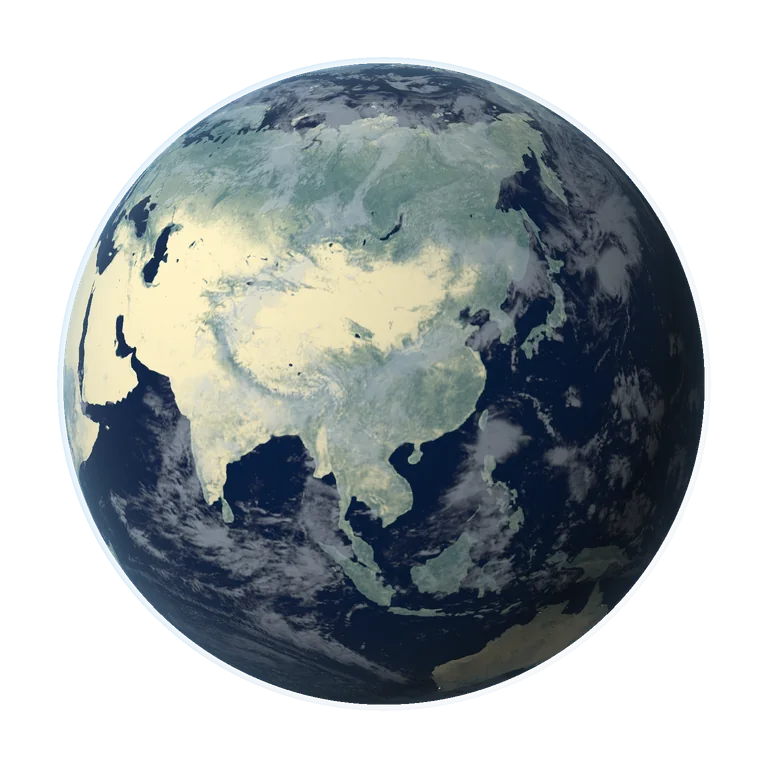
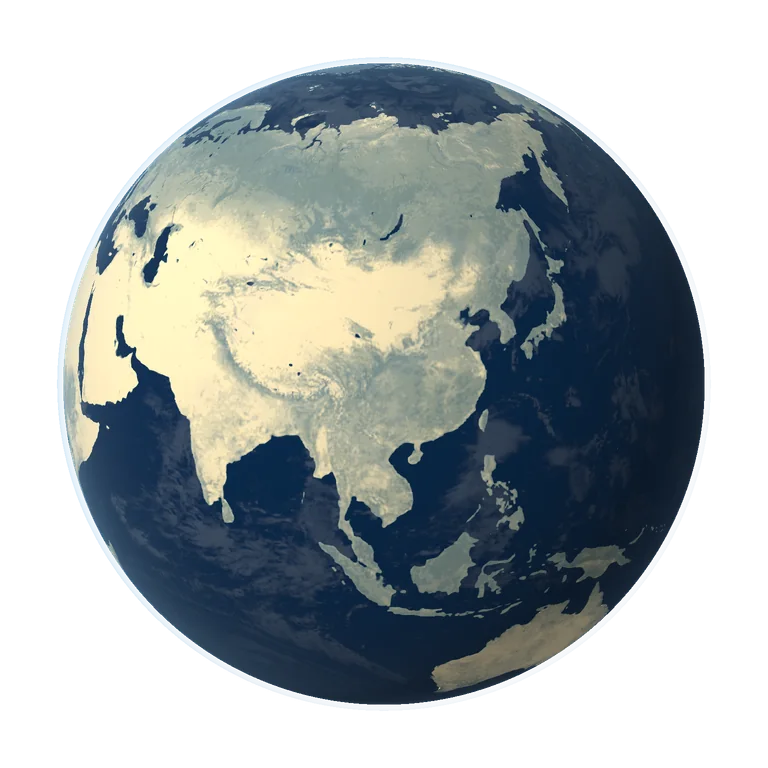
Make the research atlas more legible and directly explorable

diff --git a/app/InteractiveGlobe.tsx b/app/InteractiveGlobe.tsx
@@ -23,7 +23,7 @@ export default function InteractiveGlobe({ language, paused, ready, linkedStudy,
   const focus = useRef<((lon: number, lat: number) => void) | null>(null), active = useRef(8);
   const changeStyle = useRef<((network: boolean) => void) | null>(null), redraw = useRef<(() => void) | null>(null);
   const renderMask = useRef(allResearchLinks);
-  const [renderer, setRenderer] = useState("loading"), [selected, setSelected] = useState("CN"), [requestedStyle, setStyle] = useState("earth");
+  const [renderer, setRenderer] = useState("loading"), [selected, setSelected] = useState("CN"), [requestedStyle, setStyle] = useState("network");
   const [view, setView] = useState("CN"), [study, setStudy] = useState(0);
   const [caseOnly, setCaseOnly] = useState(false);
   const [lastLinkedStudy, setLastLinkedStudy] = useState<number | null>(null);
@@ -75,7 +75,8 @@ export default function InteractiveGlobe({ language, paused, ready, linkedStudy,
     }
     gl.enable(gl.DEPTH_TEST); gl.depthFunc(gl.LEQUAL); gl.enable(gl.CULL_FACE); gl.cullFace(gl.BACK); gl.enable(gl.BLEND); gl.blendFunc(gl.SRC_ALPHA, gl.ONE_MINUS_SRC_ALPHA); gl.clearColor(0, 0, 0, 0);
     const uo = gl.getUniformLocation(program, "orientation"), ur = gl.getUniformLocation(program, "resolution"), ua = gl.getUniformLocation(program, "activeMarket"), un = gl.getUniformLocation(program, "networkView"), uReveal = gl.getUniformLocation(program, "routeReveal"), uClock = gl.getUniformLocation(program, "clock"), uPixel = gl.getUniformLocation(program, "pixelRatio"), uMask = gl.getUniformLocation(program, "caseMarketMask");
-    gl.uniform2f(gl.getUniformLocation(program, "routeShape"), researchRouteShape.baseRadius, researchRouteShape.lift);
+    gl.uniform3f(gl.getUniformLocation(program, "routeShape"), researchRouteShape.baseRadius, researchRouteShape.lift, researchRouteShape.bend);
+    gl.uniform2f(gl.getUniformLocation(program, "flow"), researchRouteShape.flowRate, researchRouteShape.phases.length);
     const texture = gl.createTexture(); gl.activeTexture(gl.TEXTURE0); gl.bindTexture(gl.TEXTURE_2D, texture); gl.texImage2D(gl.TEXTURE_2D, 0, gl.RGB, 1, 1, 0, gl.RGB, gl.UNSIGNED_BYTE, new Uint8Array([8, 30, 45]));
     gl.texParameteri(gl.TEXTURE_2D, gl.TEXTURE_MIN_FILTER, gl.LINEAR); gl.texParameteri(gl.TEXTURE_2D, gl.TEXTURE_MAG_FILTER, gl.LINEAR); gl.texParameteri(gl.TEXTURE_2D, gl.TEXTURE_WRAP_S, gl.REPEAT); gl.texParameteri(gl.TEXTURE_2D, gl.TEXTURE_WRAP_T, gl.CLAMP_TO_EDGE);
     gl.uniform1i(gl.getUniformLocation(program, "earth"), 0);
@@ -86,9 +87,13 @@ export default function InteractiveGlobe({ language, paused, ready, linkedStudy,
     let frame = 0, alive = true, visible = true, loaded = false, surfaceReady = false, cloudsReady = false, painted = false, failed = false, pointer = -1, lastX = 0, lastY = 0;
     let networkBlend = 0, networkTarget = 0, routeReveal = 1, lastFrame = 0, flowClock = 0, resizePending = false;
     const current=[105,30], target=[105,30];
+    let lastProjection = "";
     const nodeLabels = labels.current?.querySelectorAll<HTMLElement>("[data-market]");
     function draw(now: number) {
       frame = 0; if (!alive || !visible || document.hidden || !loaded) return;
+      const moving = Math.abs(current[0] - target[0]) + Math.abs(current[1] - target[1]) > .04 || Math.abs(networkBlend - networkTarget) > .001 || routeReveal < 1;
+      // A still camera only needs to repaint the travelling lights, not every display refresh.
+      if (!resizePending && !moving && !motion.current && networkTarget > .01 && lastFrame && now - lastFrame < 1000 / 32) { frame = requestAnimationFrame(draw); return; }
       resizePending = false;
       const delta = Math.min(.06, lastFrame ? Math.max(0, (now - lastFrame) / 1000) : .016); lastFrame = now;
       const speed = motion.current ? 1 : .13; current[0] += (target[0] - current[0]) * speed; current[1] += (target[1] - current[1]) * speed;
@@ -103,11 +108,15 @@ export default function InteractiveGlobe({ language, paused, ready, linkedStudy,
       gl!.disable(gl!.CULL_FACE); gl!.drawArrays(gl!.TRIANGLES, (globe.length + atmosphere.length) / 8, network.triangles);
       gl!.drawArrays(gl!.POINTS, (globe.length + atmosphere.length) / 8 + network.triangles, network.points + network.particles); gl!.enable(gl!.CULL_FACE); gl!.depthMask(true);
       if (!painted) { if (gl!.getError() !== gl!.NO_ERROR) { fail(); return; } painted = true; setRenderer("webgl"); }
-      nodeLabels?.forEach((label, i) => {
-        const p = projectPoint(researchMarkets[i].lon, researchMarkets[i].lat, current[0], current[1], el!.width / el!.height);
-        label.hidden = !p.visible; label.style.left = `${p.x * 100}%`; label.style.top = `${p.y * 100}%`;
-      });
-      el!.dataset.longitude = current[0].toFixed(2); el!.dataset.latitude = current[1].toFixed(2);
+      const longitude = current[0].toFixed(2), latitude = current[1].toFixed(2), projection = `${longitude}/${latitude}/${el!.width}/${el!.height}`;
+      if (projection !== lastProjection) {
+        lastProjection = projection;
+        nodeLabels?.forEach((label, i) => {
+          const p = projectPoint(researchMarkets[i].lon, researchMarkets[i].lat, current[0], current[1], el!.width / el!.height);
+          label.hidden = !p.visible; label.style.left = `${p.x * 100}%`; label.style.top = `${p.y * 100}%`;
+        });
+        el!.dataset.longitude = longitude; el!.dataset.latitude = latitude;
+      }
       el!.dataset.networkBlend = networkBlend.toFixed(3); el!.dataset.routeReveal = routeReveal.toFixed(3);
       el!.dataset.flowClock = flowClock.toFixed(3); el!.dataset.routes = String(network.edges.length);
       el!.dataset.lightPackets = String(network.particles);
@@ -148,7 +157,7 @@ export default function InteractiveGlobe({ language, paused, ready, linkedStudy,
     const nightImage = new window.Image(); el.dataset.nightTexture = "loading";
     nightImage.onload = () => { if (!alive || failed) return; if (nightImage.width > gl!.getParameter(gl!.MAX_TEXTURE_SIZE)) { el!.dataset.nightTexture = "unavailable"; return; } gl!.activeTexture(gl!.TEXTURE2); gl!.bindTexture(gl!.TEXTURE_2D, nightTexture); gl!.texImage2D(gl!.TEXTURE_2D, 0, gl!.RGB, gl!.RGB, gl!.UNSIGNED_BYTE, nightImage); gl!.generateMipmap(gl!.TEXTURE_2D); gl!.texParameteri(gl!.TEXTURE_2D, gl!.TEXTURE_MIN_FILTER, gl!.LINEAR_MIPMAP_LINEAR); el!.dataset.nightTexture = "ready"; wake(); };
     nightImage.onerror = () => { if (alive) el!.dataset.nightTexture = "unavailable"; }; nightImage.src = `${base}/images/earth-night-2016.jpg`;
-    function down(e: globalThis.PointerEvent) { if (!loaded) return; pointer = e.pointerId; lastX = e.clientX; lastY = e.clientY; el!.setPointerCapture(pointer); el!.dataset.dragging = "true"; }
+    function down(e: globalThis.PointerEvent) { if (!loaded || !e.isPrimary || e.button !== 0) return; pointer = e.pointerId; lastX = e.clientX; lastY = e.clientY; el!.setPointerCapture(pointer); el!.dataset.dragging = "true"; }
     function move(e: globalThis.PointerEvent) { if (e.pointerId !== pointer) return; target[0] -= (e.clientX - lastX) * .35; target[1] = Math.max(-65, Math.min(65, target[1] + (e.clientY - lastY) * .24)); lastX = e.clientX; lastY = e.clientY; setView("FREE"); wake(); }
     function up(e: globalThis.PointerEvent) { if (e.pointerId !== pointer) return; if (el!.hasPointerCapture(pointer)) el!.releasePointerCapture(pointer); pointer = -1; el!.dataset.dragging = "false"; }
     function key(e: globalThis.KeyboardEvent) {
@@ -213,21 +222,28 @@ export default function InteractiveGlobe({ language, paused, ready, linkedStudy,
   return <div className="rg-globe" data-renderer={renderer} data-view={renderer === "webgl" ? view : "CN"} data-market-selection={selected} data-style={style} data-market-ready={ready} data-layer={showingCoverage ? "study" : "all"} data-map-link={linkedStudy !== null}>
     {!ready && <StudyMapBriefs language={language}/>}
     {linkedStudy !== null && <StudyMapAddress index={currentStudy.index} language={language}/>}
+    <header className="rg-atlas-head">
+      <h2>{loc("多国研究地图", "Research atlas")}</h2>
+      <div className="rg-globe-styles" role="group" aria-label={loc("地球显示方式", "Globe display style")}>
+        <button type="button" disabled={renderer !== "webgl"} aria-pressed={style === "network"} aria-label={loc("研究网络", "Research network")} onClick={() => chooseStyle("network")}><svg viewBox="0 0 24 24" fill="none" aria-hidden="true"><path d="m6 6 12 2-5 10L6 6l12 2M6 6l7 12"/><circle cx="6" cy="6" r="2"/><circle cx="18" cy="8" r="2"/><circle cx="13" cy="18" r="2"/></svg>{loc("研究网络", "Network")}</button>
+        <button type="button" disabled={renderer !== "webgl"} aria-pressed={style === "earth"} aria-label={loc("卫星地形", "Satellite terrain")} onClick={() => chooseStyle("earth")}><svg viewBox="0 0 24 24" fill="none" aria-hidden="true"><circle cx="12" cy="12" r="8"/><path d="m5 14 5-6 4 5 2-2 3 4"/></svg>{loc("卫星地形", "Terrain")}</button>
+      </div>
+    </header>
     <div className="rg-globe-stage" id="rg-globe-stage" onKeyDown={keyboard}><div className="rg-globe-shadow"/><Image className="rg-earth-poster" src={`${base}/images/earth-china-poster.webp?v=${earthPosterRevision}`} width={768} height={768} alt={loc("中国视角的地球", "Earth centered on China")} aria-hidden={renderer === "webgl" || linkedStudy !== null} unoptimized priority draggable={false}/>
       <canvas ref={canvas} className="rg-globe-canvas" tabIndex={renderer === "webgl" ? 0 : -1} role="img" aria-hidden={renderer !== "webgl"} aria-label={loc("可旋转地球。拖动改变视角，方向键旋转，Home返回中国。", "Interactive globe. Drag or use arrow keys to rotate. Home centers China.")} onDragStart={e => e.preventDefault()}/>
       <div className="rg-globe-nodes" ref={labels}>{researchMarkets.map((p, i) => <button type="button" data-market={p.code} data-in-study={Boolean(coverage.mask & (1 << i))} key={p.code} hidden disabled={renderer !== "webgl"} aria-label={loc(`查看${p.zh}研究项目`, `View research in ${p.en}`)} aria-controls="rg-market-research" aria-pressed={selected === p.code} onClick={() => exploreFromGlobe(p.code)}><span>{p.code}</span></button>)}</div>
-      <span className="rg-globe-note" role="status">{!ready ? "" : renderer === "fallback" ? loc("仍可在下方选择市场", "SELECT A MARKET BELOW") : renderer === "loading" ? loc("正在准备地球交互", "PREPARING INTERACTIVE VIEW") : loc("拖动旋转 · 点击标记查看案例", "DRAG TO ROTATE · SELECT A MARKET PIN")}</span>
+      <span className="rg-globe-note" role="status">{!ready ? "" : renderer === "fallback" ? loc("选择市场查看案例", "Choose a market to see its cases") : renderer === "loading" ? loc("正在载入地图", "Loading map") : loc("拖动旋转 · 选择市场查看案例", "Drag to rotate · Select a market to see its cases")}</span>
     </div>
-    <div className="rg-globe-toolbar"><div className="rg-globe-styles" role="group" aria-label={loc("地球显示方式", "Globe display style")}><button type="button" disabled={renderer !== "webgl"} aria-pressed={style === "earth"} onClick={() => chooseStyle("earth")}><svg viewBox="0 0 24 24" fill="none" aria-hidden="true"><circle cx="12" cy="12" r="8"/><ellipse cx="12" cy="12" rx="4" ry="8"/><path d="M4 12h16"/></svg>{loc("卫星", "Satellite")}</button><button type="button" disabled={renderer !== "webgl"} aria-pressed={style === "network"} onClick={() => chooseStyle("network")}><svg viewBox="0 0 24 24" fill="none" aria-hidden="true"><path d="m6 6 12 2-5 10L6 6l12 2M6 6l7 12"/><circle cx="6" cy="6" r="2"/><circle cx="18" cy="8" r="2"/><circle cx="13" cy="18" r="2"/></svg>{loc("研究网络", "Research network")}</button></div>
-    <div className="rg-globe-views" role="group" aria-label={loc("地球主体视角", "Globe focal view")}>
-      <button type="button" disabled={renderer !== "webgl"} aria-pressed={view === "CN"} aria-label={loc("中国视角", "China view")} onClick={() => choose("CN")}>{loc("中国", "China")}</button>
-      <button type="button" disabled={renderer !== "webgl"} aria-pressed={view === "US"} aria-label={loc("美国视角", "U.S. view")} aria-controls="rg-market-research" onClick={() => choose("US")}>{loc("美国", "U.S.")}</button>
+    <div className="rg-globe-toolbar">
+    <div className="rg-globe-views" role="group" aria-label={loc("快速选择市场", "Market shortcuts")}>
+      <button type="button" aria-pressed={view === "CN"} aria-label={loc("中国视角 · 多国研究", "China view · Multi-country studies")} aria-controls="rg-market-research" onClick={() => choose("CN")}><span className="rg-view-code">CN</span>{loc("多国研究", "Multi-country")}</button>
+      <button type="button" className="rg-us-shortcut" aria-pressed={selected === "US"} aria-label={loc("查看美国研究", "View U.S. studies")} aria-controls="rg-market-research" onClick={() => exploreFromGlobe("US")}><span className="rg-view-code">US</span>{loc("美国案例", "U.S. cases")}<span className="rg-view-arrow" aria-hidden="true">↓</span></button>
     </div>
     <div className="rg-network-key" hidden={style !== "network"} aria-label={loc("研究连线图例", "Research link legend")}>
       <div className="rg-key-legend">
         {showingCoverage
           ? <span className="rg-key-markets"><i aria-hidden="true"/>{loc("本案例涉及市场", "Markets in this study")}</span>
-          : <><span><i aria-hidden="true"/>{selectedPlace ? loc("当前市场连线", "Selected market links") : loc("北京起点", "Beijing hub")}</span><span><i aria-hidden="true"/>{loc("其他研究连线", "Other research links")}</span></>}
+          : <><span><i aria-hidden="true"/>{selectedPlace ? loc("当前市场连线", "Selected market links") : loc("北京连线", "Beijing links")}</span><span><i aria-hidden="true"/>{loc("其他研究连线", "Other research links")}</span></>}
       </div>
       {hasCoverage && <button className="rg-case-layer" type="button" aria-pressed={showingCoverage} aria-controls="rg-globe-stage" onClick={() => setCaseOnly(value => !value)}>
         <svg viewBox="0 0 16 16" fill="none" aria-hidden="true"><path d="M6 2.5H2.5V6m7.5-3.5h3.5V6M6 13.5H2.5V10m7.5 3.5h3.5V10"/><circle cx="8" cy="8" r="1.5"/></svg>

diff --git a/app/earth-material.ts b/app/earth-material.ts
@@ -1,30 +1,38 @@
 // Shared lighting and shell dimensions for the live Earth and its offline poster.
-export const earthPosterRevision = "0a675da3fca5";
+export const earthPosterRevision = "7b15aaa2fc3a";
 
 export const earthMaterial = {
   light: [-.88, .58, 1.14],
   cloudRadius: 1.003,
   atmosphereRadius: 1.018,
-  ambient: .065,
-  exposure: 1.15,
-  landShadows: [.24, .40, .43],
-  landHighlights: [.90, .86, .71],
-  oceanBase: [.018, .104, .192],
-  oceanDetail: .25,
-  cloudOpacity: .35,
-  cloudShadow: .29,
-  cloudTint: [.88, .94, .99],
+  ambient: .25,
+  exposure: 1.10,
+  landShadows: [.36, .46, .47],
+  landHighlights: [.91, .84, .67],
+  oceanBase: [.030, .147, .248],
+  oceanDetail: .10,
+  cloudOpacity: .085,
+  cloudShadow: .09,
+  cloudTint: [.80, .91, .98],
+  coastTint: [.24, .28, .26],
+  terrainBands: 6,
+  terrainBandMix: .54,
 } as const;
 
 export const earthVertex = `#version 300 es
 precision highp float;
 in vec3 position;in vec3 normal;in float material;in float market;
-uniform vec2 resolution;uniform vec2 orientation;uniform vec2 routeShape;uniform float activeMarket;uniform float clock;uniform float pixelRatio;uniform int caseMarketMask;
+uniform vec2 resolution;uniform vec2 orientation;uniform vec3 routeShape;uniform vec2 flow;uniform float activeMarket;uniform float clock;uniform float pixelRatio;uniform int caseMarketMask;
 out vec3 point;out vec3 surface;out float pathPosition;out float edgeDistance;flat out float kind;flat out float picked;flat out float routeCode;flat out float inCoverage;
 vec3 view(vec3 w){float a=orientation.y,b=orientation.x;vec3 p=vec3(cos(b)*w.x-sin(b)*w.z,w.y,sin(b)*w.x+cos(b)*w.z);return vec3(p.x,cos(a)*p.y-sin(a)*p.z,sin(a)*p.y+cos(a)*p.z);}
 void main(){
  vec3 p=position;pathPosition=normal.x;edgeDistance=normal.y;
- if(material>3.5){float t=fract(clock*.14+market*.013+material-4.);float a=acos(clamp(dot(position,normal),-1.,1.));p=(position*sin((1.-t)*a)+normal*sin(t*a))/sin(a)*(routeShape.x+routeShape.y*sin(3.14159265*t));pathPosition=t;}
+ if(material>3.5){
+  float t=fract(clock*flow.x+market*.013+material-4.);
+  float a=acos(clamp(dot(position,normal),-1.,1.)),rise=sin(3.14159265*t);
+  p=(position*sin((1.-t)*a)+normal*sin(t*a))/sin(a)*(routeShape.x+routeShape.y*rise);
+  p+=normalize(cross(position,normal))*(rise*routeShape.z*min(1.,a*1.6));pathPosition=t;
+ }
  if((material>.5&&material<2.5)||material>3.5)p=view(p);
  float depth=4.6-p.z,scale=4.2/1.12;
  gl_Position=vec4(p.x*scale/(resolution.x/resolution.y),p.y*scale,1.020202*depth-.2020202,depth);
@@ -37,21 +45,28 @@ void main(){
  }
  inCoverage=(!caseOnly||bothInCase)?1.:0.;
  picked=caseOnly?inCoverage:((abs(floor(market/16.)-activeMarket)<.1||abs(mod(market,16.)-activeMarket)<.1)?1.:0.);
- gl_PointSize=material>3.5?(picked>.5?11.:7.)*pixelRatio:material>1.5&&material<2.5?(picked>.5?20.:13.)*pixelRatio:1.;
+ gl_PointSize=material>3.5?(picked>.5?13.:8.)*pixelRatio:material>1.5&&material<2.5?(picked>.5?24.:15.)*pixelRatio:1.;
  if(caseOnly&&bothInCase&&material>1.5&&material<2.5)gl_PointSize=(25.+2.*sin(clock*2.4))*pixelRatio;
 }`;
 
 export const earthFragment = `#version 300 es
 precision highp float;
 in vec3 point;in vec3 surface;in float pathPosition;in float edgeDistance;flat in float kind;flat in float picked;flat in float routeCode;flat in float inCoverage;out vec4 color;
-uniform sampler2D earth;uniform sampler2D clouds;uniform sampler2D night;uniform vec2 orientation;uniform vec2 resolution;uniform float networkView;uniform float routeReveal;uniform float clock;
+uniform sampler2D earth;uniform sampler2D clouds;uniform sampler2D night;uniform vec2 orientation;uniform vec2 resolution;uniform vec2 flow;uniform float networkView;uniform float routeReveal;uniform float clock;
 const float PI=3.14159265359;
 const float CLOUD_RADIUS=${earthMaterial.cloudRadius};
 vec3 world(vec3 n){float a=orientation.y,b=orientation.x;vec3 p=vec3(n.x,cos(a)*n.y+sin(a)*n.z,-sin(a)*n.y+cos(a)*n.z);return vec3(cos(b)*p.x+sin(b)*p.z,p.y,-sin(b)*p.x+cos(b)*p.z);}
 vec2 uvAt(vec3 n){vec3 w=world(normalize(n));return vec2(atan(w.x,w.z)/(2.*PI)+.5,.5-asin(clamp(w.y,-1.,1.))/PI);}
 float cloudAt(vec3 n){return smoothstep(.055,.88,texture(clouds,uvAt(n)).r);}
 vec3 cityLights(vec3 sampleColor){float mask=smoothstep(.025,.13,sampleColor.r-.8*sampleColor.b)*smoothstep(.08,.35,sampleColor.r);return sampleColor*mask;}
-vec3 gradeSurface(vec3 natural,float water){float luma=dot(natural,vec3(.28,.58,.14));vec3 land=mix(vec3(${earthMaterial.landShadows.join(",")}),vec3(${earthMaterial.landHighlights.join(",")}),smoothstep(.035,.57,luma));vec3 ocean=vec3(${earthMaterial.oceanBase.join(",")})+natural*${earthMaterial.oceanDetail};return mix(land,ocean,water);}
+vec3 gradeSurface(vec3 natural,float water){
+ float luma=dot(natural,vec3(.28,.58,.14)),relief=smoothstep(.035,.57,luma);
+ float band=relief*${earthMaterial.terrainBands}.;
+ float terraces=(floor(band)+smoothstep(.24,.78,fract(band)))/${earthMaterial.terrainBands}.;
+ vec3 land=mix(vec3(${earthMaterial.landShadows.join(",")}),vec3(${earthMaterial.landHighlights.join(",")}),mix(relief,terraces,${earthMaterial.terrainBandMix}));
+ vec3 ocean=vec3(${earthMaterial.oceanBase.join(",")})+natural*${earthMaterial.oceanDetail};
+ return mix(land,ocean,water)+vec3(${earthMaterial.coastTint.join(",")})*water*(1.-water);
+}
 vec3 shellPoint(vec3 p,vec3 direction){float b=dot(p,direction);float d=-b+sqrt(max(0.,b*b+CLOUD_RADIUS*CLOUD_RADIUS-dot(p,p)));return p+direction*d;}
 void main(){
  if((kind>.5&&kind<2.5)||kind>3.5){
@@ -60,20 +75,20 @@ void main(){
   float silhouette=(4.2/1.12)/sqrt(4.6*4.6-1.);
   float screenDistance=length((gl_FragCoord.xy-resolution*.5)*2./resolution.y);
   float limb=smoothstep(.12,.36,normalize(point).z)*(1.-smoothstep(silhouette-.012,silhouette,screenDistance));
-  vec3 signal=mix(vec3(.32,.86,.99),vec3(1.,.76,.38),picked);
+  vec3 signal=mix(vec3(.28,.81,.94),vec3(1.,.73,.32),picked);
   if(kind>1.5){
    if(kind>3.5&&networkView<.01)discard;
    float d=length(gl_PointCoord-.5);if(d>.5)discard;
-   float core=1.-smoothstep(.06,.19,d),halo=pow(1.-smoothstep(.01,.5,d),1.65);
+   float core=1.-smoothstep(.06,.20,d),halo=pow(1.-smoothstep(.01,.5,d),1.42);
    float alpha=max(core,halo*.88)*limb;
    if(kind>3.5)alpha*=networkView;
    color=vec4(mix(signal,vec3(.98,.99,1.),core*.79),alpha);
   }else{
    if(networkView<.01)discard;
    float reveal=1.-smoothstep(routeReveal,routeReveal+.045,pathPosition);
-   float x=abs(edgeDistance),core=1.-smoothstep(.12,.51,x),halo=pow(1.-smoothstep(.08,1.,x),1.65);
-   float trail=exp(-8.*fract((clock*.14+routeCode*.013-pathPosition)*3.));
-   float alpha=clamp(core*(mix(.54,.90,picked)+trail*.22)+halo*mix(.19,.30,picked),0.,.98);
+   float x=abs(edgeDistance),core=1.-smoothstep(.11,.48,x),halo=pow(1.-smoothstep(.08,1.,x),1.4);
+   float trail=exp(-6.5*fract((clock*flow.x+routeCode*.013-pathPosition)*flow.y));
+   float alpha=clamp(core*(mix(.61,.94,picked)+trail*.25)+halo*mix(.20,.37,picked),0.,.98);
    color=vec4(mix(signal,vec3(.98,.99,1.),core*(.18+trail*.60)),alpha*limb*networkView*mix(1.,reveal,picked));
   }return;
  }
@@ -100,13 +115,13 @@ void main(){
  vec2 gridDistance=abs(sin(geo*12.));vec2 gridWidth=max(fwidth(geo*12.),vec2(.001));
  float grid=1.-min(smoothstep(vec2(0.),gridWidth*1.2,gridDistance).x,smoothstep(vec2(0.),gridWidth*1.2,gridDistance).y);
  float facing=max(0.,dot(n,v)),relief=smoothstep(.27,.79,dot(natural,vec3(.28,.58,.14)));
- vec3 network=mix(vec3(.024,.068,.115),mix(vec3(.052,.155,.184),vec3(.105,.239,.267),relief),1.-water);
- network*=.75+.25*facing;network+=vec3(.25,.52,.72)*grid*.085;
- vec2 cells=geo*vec2(101.,82.);vec2 cell=floor(cells);float seed=fract(sin(dot(cell,vec2(127.1,311.7)))*43758.5453);
- float d=length(fract(cells)-.5),radius=mix(.15,.25,seed),aa=clamp(fwidth(d),.028,.12);
- float dots=(1.-smoothstep(radius-aa,radius+aa,d))*step(.28,seed)*(1.-water)*smoothstep(.13,.50,facing);
- network+=vec3(.24,.63,.78)*dots*(.14+.28*seed);
- network+=vec3(.26,.65,.84)*pow(max(0.,dot(lights,vec3(.35,.45,.2))),.72)*.95;
+ vec3 network=mix(vec3(.031,.078,.133),mix(vec3(.070,.180,.218),vec3(.143,.296,.325),relief),1.-water);
+ network*=.73+.27*facing;network+=vec3(.28,.54,.73)*grid*.061;
+ vec2 cells=geo*vec2(113.,94.);vec2 cell=floor(cells);float seed=fract(sin(dot(cell,vec2(127.1,311.7)))*43758.5453);
+ float d=length(fract(cells)-.5),radius=mix(.17,.31,seed),aa=clamp(fwidth(d),.028,.13);
+ float dots=(1.-smoothstep(radius-aa,radius+aa,d))*step(.20,seed)*(1.-water)*smoothstep(.15,.52,facing);
+ network+=vec3(.29,.68,.82)*dots*(.22+.31*seed);
+ network+=vec3(.46,.72,.84)*pow(max(0.,dot(lights,vec3(.35,.45,.2))),.64)*.99;
  network+=vec3(.055,.18,.27)*pow(1.-facing,3.);
  color=vec4(mix(satellite,network,networkView),1.);
 }`;
@@ -135,9 +150,11 @@ export function shadeEarth(p: Vector, surfaceAt: Sampler, cloudsAt: Sampler, nig
   let natural = surfaceAt(n);
   const water = 1 - smoothstep(-.03, .075, Math.max(natural[0], natural[1] * .9) - natural[2]);
   const luma = dot(natural, [.28, .58, .14]);
-  const land = mix(earthMaterial.landShadows, earthMaterial.landHighlights, smoothstep(.035, .57, luma));
+  const relief = smoothstep(.035, .57, luma), band = relief * earthMaterial.terrainBands;
+  const terraces = (Math.floor(band) + smoothstep(.24, .78, band % 1)) / earthMaterial.terrainBands;
+  const land = mix(earthMaterial.landShadows, earthMaterial.landHighlights, relief + (terraces - relief) * earthMaterial.terrainBandMix);
   const ocean = natural.map((value, index) => earthMaterial.oceanBase[index] + value * earthMaterial.oceanDetail);
-  natural = mix(land, ocean, water);
+  natural = mix(land, ocean, water).map((value, index) => value + earthMaterial.coastTint[index] * water * (1 - water));
   const cloudAt = (normal: Vector) => smoothstep(.055, .88, cloudsAt(normal)[0]);
   const incidence = dot(n, light), sun = Math.max(0, incidence);
   const shadow = cloudAt(intersectShell(n, light, earthMaterial.cloudRadius));

diff --git a/app/earth-controls.css b/app/earth-controls.css
@@ -1,15 +1,26 @@
-.portfolio-v17 .rg-globe{--rg-ink:#263f55;--rg-muted:#536b7e;--rg-line:#b9c6ca;--rg-accent:#b28b52}
-.portfolio-v17 .rg-globe-stage{aspect-ratio:1.13;height:auto;max-height:480px}
-.portfolio-v17 .rg-globe-note{font-size:9px;letter-spacing:.08em;color:var(--rg-muted);bottom:-1px}
-.portfolio-v17 .rg-globe[data-style=network] .rg-globe-shadow{background:#17455d39}
-.portfolio-v17 .rg-globe-toolbar{display:flex;justify-content:space-between;align-items:center;flex-wrap:wrap;gap:8px 12px;margin:16px 0 12px}
-.portfolio-v17 .rg-globe-styles{display:flex;gap:3px;border:1px solid #afbdc7;border-radius:6px;padding:3px;background:#e6ebeb82}
-.portfolio-v17 .rg-globe-styles button{display:flex;align-items:center;justify-content:center;gap:8px;min-height:44px;padding:8px 13px;border:0;border-radius:3px;background:none;color:var(--rg-muted);font-size:11px;white-space:nowrap;transition:background .3s,color .3s}
+.portfolio-v17 .rg-globe{--rg-ink:#203c54;--rg-muted:#4f6576;--rg-line:#adbec5;--rg-accent:#a4793b;--rg-pale:#f5e7c8}
+.portfolio-v17 .rg-atlas-head{display:flex;align-items:center;justify-content:space-between;flex-wrap:wrap;gap:4px 12px;padding:0 0 8px;border-bottom:1px solid #b9c8c7}
+.portfolio-v17 .rg-atlas-head h2{display:flex;align-items:center;gap:9px;margin:0;font-size:15px;font-weight:600;line-height:1.35;color:var(--rg-ink)}
+.portfolio-v17 .rg-atlas-head h2::before{content:"";display:block;flex:none;width:12px;height:2px;background:#aa8244}
+.portfolio-v17 .rg-globe[data-market-ready=false] .rg-globe-styles,.portfolio-v17 .rg-globe[data-renderer=fallback] .rg-globe-styles{display:none}
+.portfolio-v17 .rg-globe-stage{aspect-ratio:1.13;height:auto;max-height:444px}
+.portfolio-v17 .rg-globe .rg-globe-canvas{touch-action:pan-y}
+.portfolio-v17 .rg-globe-note{font-size:11px;letter-spacing:.02em;color:var(--rg-muted);bottom:0}
+.portfolio-v17 .rg-globe[data-style=network] .rg-globe-shadow{background:#17455d36}
+.portfolio-v17 .rg-globe-toolbar{display:flex;align-items:center;flex-wrap:wrap;gap:6px 12px;margin:10px 0 12px}
+.portfolio-v17 .rg-globe-styles{display:flex;gap:3px;min-width:0;padding:2px 0}
+.portfolio-v17 .rg-globe-styles button{display:flex;align-items:center;justify-content:center;gap:6px;min-height:44px;padding:6px 10px;border:1px solid transparent;border-radius:3px;background:none;color:var(--rg-muted);font-size:12px;white-space:nowrap;transition:background .24s,color .24s}
 .portfolio-v17 .rg-globe-styles svg{width:17px;height:17px;stroke:currentColor;stroke-width:1.2}
-.portfolio-v17 .rg-globe-styles button[aria-pressed=true]{background:var(--rg-ink);color:#f5f2e8;box-shadow:0 2px 5px #19344c1c}
-.portfolio-v17 .rg-globe-views{display:flex;gap:3px;margin:0;padding:3px;border:1px solid #afbdc7;border-radius:6px;background:#e6ebeb82}
-.portfolio-v17 .rg-globe-views button{min-width:46px;min-height:44px;border:0;border-radius:3px;padding:7px 10px;background:none;color:var(--rg-muted);font-size:11px;white-space:nowrap}
-.portfolio-v17 .rg-globe-views button[aria-pressed=true]{background:#ecdfc3;color:#213c52;font-weight:700}
+.portfolio-v17 .rg-globe-styles button:not([aria-pressed=true]):hover{background:#dce8e5;color:var(--rg-ink)}
+.portfolio-v17 .rg-globe-styles button[aria-pressed=true]{background:var(--rg-ink);color:#f5f2e8;border-color:#1c354a}
+.portfolio-v17 .rg-globe-views{display:grid;flex:1 0 100%;grid-template-columns:1fr 1fr;gap:8px;margin:0;padding:0}
+.portfolio-v17 .rg-globe-views button{justify-content:flex-start;gap:9px;min-width:0;min-height:46px;border:1px solid var(--rg-line);border-radius:3px;padding:6px 10px;background:#f3f6f0;color:var(--rg-ink);font-size:12px;line-height:1.2;text-align:start;transition:background .22s,border-color .22s}
+.portfolio-v17 .rg-globe-views button:hover,.portfolio-v17 .rg-globe-views button[aria-pressed=true]{background:#dce8e6;border-color:#7e9ca5}
+.portfolio-v17 .rg-globe-views .rg-view-code{flex:none;font-size:14px;font-weight:700;letter-spacing:.055em;color:inherit}
+.portfolio-v17 .rg-globe-views .rg-view-arrow{margin-inline-start:auto;font-size:16px;color:inherit}
+.portfolio-v17 .rg-globe-views .rg-us-shortcut{background:var(--rg-pale);border-color:#c6a775;font-weight:600}
+.portfolio-v17 .rg-globe-views .rg-us-shortcut:hover,.portfolio-v17 .rg-globe-views .rg-us-shortcut[aria-pressed=true]{background:#f0d9a8;border-color:#a77f3f}
+.portfolio-v17 .rg-globe-views .rg-us-shortcut .rg-view-code{font-size:17px}
 .portfolio-v17 .rg-network-key:not([hidden]){display:flex;flex:1 0 100%;min-width:0;align-items:center;justify-content:space-between;gap:5px 12px;color:var(--rg-muted);font-size:11px;line-height:1.4}
 .portfolio-v17 .rg-key-legend{display:flex;min-width:0;flex-wrap:wrap;gap:4px 12px}
 .portfolio-v17 .rg-key-legend>span{display:inline-flex;align-items:center;gap:6px;white-space:nowrap}
@@ -25,12 +36,13 @@
 .portfolio-v17 .rg-case-map-summary>strong{font-size:inherit;font-weight:600;min-width:0;overflow-wrap:anywhere}
 .portfolio-v17 .rg-globe button:disabled{opacity:.45;cursor:default}
 .portfolio-v17 .rg-globe button:focus-visible{outline:2px solid #a17b40;outline-offset:3px}
-.portfolio-v17 .rg-globe-nodes>button{width:44px;height:44px;font-size:11px;color:#e8f2f4}
+.portfolio-v17 .rg-globe-nodes>button{width:44px;height:44px;font-size:12px;color:#e8f2f4}
 .portfolio-v17 .rg-globe-nodes>button::before{content:"";position:absolute;width:5px;height:5px;top:calc(50% - 2.5px);left:calc(50% - 2.5px);background:#e6f7ff;border-radius:50%;box-shadow:0 0 6px 2px #63b4ecb0}
-.portfolio-v17 .rg-globe-nodes>button>span{opacity:1;top:9px;left:30px;padding:5px 7px;background:#142d43db;border:1px solid #7395ae7a;border-radius:3px;letter-spacing:.04em;font-weight:500;text-shadow:none;white-space:nowrap;pointer-events:auto}
+.portfolio-v17 .rg-globe-nodes>button>span{opacity:1;top:9px;left:30px;padding:5px 7px;background:#142d43ed;border:1px solid #87aab891;border-radius:3px;letter-spacing:.04em;font-weight:600;text-shadow:none;white-space:nowrap;pointer-events:auto}
+.portfolio-v17 .rg-globe-nodes>button:is(:hover,:focus-visible)>span{border-color:#e7d1a3}
 .portfolio-v17 .rg-globe-nodes>button[aria-pressed=true]{z-index:3}
-.portfolio-v17 .rg-globe-nodes>button[aria-pressed=true]>span{font-size:16px;font-weight:700;background:#f2e1bd;color:#173349;border-color:#ffedd1;padding:7px 10px;top:4px;box-shadow:0 3px 13px #142e4452}
-.portfolio-v17 .rg-globe-nodes>button[data-market=US][aria-pressed=true]>span{font-size:18px;letter-spacing:.06em}
+.portfolio-v17 .rg-globe-nodes>button[aria-pressed=true]>span,.portfolio-v17 .rg-globe-nodes>button[data-market=US]>span{font-size:16px;font-weight:700;background:#f2e1bd;color:#173349;border-color:#ffedd1;padding:7px 10px;top:4px;box-shadow:0 3px 13px #142e4452}
+.portfolio-v17 .rg-globe-nodes>button[data-market=US][aria-pressed=true]>span{font-size:19px;letter-spacing:.06em}
 .portfolio-v17 .rg-globe-nodes>button[aria-pressed=true]::before{background:#fff2d0;box-shadow:0 0 9px 3px #e8c782b0}
 .portfolio-v17 .rg-globe[data-layer=study] .rg-globe-nodes>button[data-in-study=false]{display:none}
 .portfolio-v17 .rg-globe[data-layer=study] .rg-globe-nodes>button[data-in-study=true]::before{background:#fff2d0;box-shadow:0 0 8px 2px #e8c782b0}
@@ -41,5 +53,5 @@
 .portfolio-v17 .rg-globe-nodes>button[data-market=UK]>span{top:-12px;left:auto;right:29px}
 @media(min-width:700px){.portfolio-v17 .pf-hero-layout{align-items:start}.portfolio-v17 .pf-hero-copy{position:sticky;top:120px;margin-top:70px;padding-top:0}}
 @media(min-width:700px) and (max-width:1100px){.portfolio-v17 .rg-globe-toolbar{gap:8px}}
-@media(max-width:699px){.portfolio-v17 .rg-globe-stage{max-height:none;aspect-ratio:1.07}.portfolio-v17 .rg-globe-note{font-size:8px}.portfolio-v17 .rg-globe-toolbar{margin-top:14px;gap:6px}.portfolio-v17 .rg-globe-styles button{font-size:10px;padding-inline:9px;gap:5px}.portfolio-v17 .rg-globe-views button{font-size:10px;padding-inline:8px}}
+@media(max-width:699px){.portfolio-v17 .rg-globe-stage{max-height:none;aspect-ratio:1.08}.portfolio-v17 .rg-globe-note{font-size:10px}.portfolio-v17 .rg-globe-toolbar{margin-top:10px;gap:6px}.portfolio-v17 .rg-atlas-head{gap:4px 6px;padding-bottom:4px}.portfolio-v17 .rg-atlas-head h2{font-size:13px;gap:6px}.portfolio-v17 .rg-atlas-head h2::before{width:8px}.portfolio-v17 .rg-globe-styles button{font-size:11px;padding-inline:7px;gap:4px}.portfolio-v17 .rg-globe-styles svg{width:14px;height:14px}.portfolio-v17 .rg-globe-views button{font-size:11px;padding-inline:8px;gap:6px}}
 @media(prefers-reduced-motion:reduce){.portfolio-v17 .rg-globe button{transition:none}}

diff --git a/app/globe-geometry.ts b/app/globe-geometry.ts
@@ -25,7 +25,10 @@ export function studyGlobeCoverage(markets: readonly string[]) {
 }
 
 const radians = Math.PI / 180;
-export const researchRouteShape = { baseRadius: 1.010, lift: .030, halfWidth: .0078, phases: [0, 1 / 3, 2 / 3] } as const;
+export const researchRouteShape = {
+  baseRadius: 1.012, lift: .069, bend: .104, halfWidth: .0105,
+  flowRate: .105, phases: [0, .2, .4, .6, .8],
+} as const;
 // Same camera and projection as the WebGL view; used to bake its first-paint image.
 export function spherePoint(clipX: number, clipY: number, radius = 1) {
   const scale = 4.2 / 1.12, dx = clipX / scale, dy = clipY / scale;
@@ -79,8 +82,9 @@ export function networkMesh(groups: readonly (readonly string[])[] = []) {
     const normal = [start[1] * end[2] - start[2] * end[1], start[2] * end[0] - start[0] * end[2], start[0] * end[1] - start[1] * end[0]];
     const length = Math.hypot(...normal), side = normal.map(v => v / length);
     function vertex(t: number, direction: number) {
-      const r = researchRouteShape.baseRadius + researchRouteShape.lift * Math.sin(Math.PI * t), divisor = Math.sin(angle);
-      const point = start.map((v, i) => r * (v * Math.sin((1 - t) * angle) + end[i] * Math.sin(t * angle)) / divisor + side[i] * researchRouteShape.halfWidth * direction);
+      const rise = Math.sin(Math.PI * t), r = researchRouteShape.baseRadius + researchRouteShape.lift * rise;
+      const offset = rise * researchRouteShape.bend * Math.min(1, angle * 1.6) + researchRouteShape.halfWidth * direction;
+      const point = start.map((v, i) => r * (v * Math.sin((1 - t) * angle) + end[i] * Math.sin(t * angle)) / Math.sin(angle) + side[i] * offset);
       data.push(...point, t, direction, 0, 1, code);
     }
     for (let i = 0; i < segments; i++) {
@@ -91,7 +95,7 @@ export function networkMesh(groups: readonly (readonly string[])[] = []) {
   }
   const triangles = data.length / 8;
   places.forEach((p, market) => data.push(...p.map(v => v * 1.018), 0, 0, 0, 2, market * 16 + market));
-  // Three light packets per existing path. The GPU moves them; no per-frame mesh uploads.
+  // Light packets trace the same curves on the GPU; no per-frame mesh uploads.
   edges.forEach(([a, b]) => {
     for (const phase of researchRouteShape.phases) data.push(...places[a], ...places[b], 4 + phase, a * 16 + b);
   });

diff --git a/app/Portfolio.tsx b/app/Portfolio.tsx
@@ -514,7 +514,6 @@ export function Portfolio({ language }: { language: Language }) {
           <HeroCaseIndex language={language} onOpen={openFeaturedStudy}/>
         </div>
         <div className="pf-hero-world">
-          <div className="pf-world-label"><span>{local(language, "多国研究地图", "RESEARCH BY MARKET")}</span><span>{local(language, "选择市场，查看研究项目", "Select a market to see its studies")}</span></div>
           <InteractiveGlobe language={language} paused={paused} ready={fragment !== null} linkedStudy={linkedMap >= 0 ? linkedMap : null} onExplore={openWorkFromMarket} onViewMap={setMapLocation}/>
         </div>
       </div>
